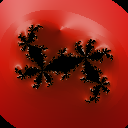
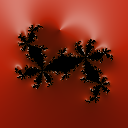
Fix: use escape radius 10^10 (matching reference) for accurate smooth iteration; adds col_i quantization in step shading; remove AA sigmoid from smooth=False

diff --git a/mandelbrot_testing_playground.py b/mandelbrot_testing_playground.py
@@ -377,7 +377,7 @@ def color_pixel(niter, stripe_a, step_s, dem, normal, colortable, ncycle, light,
 
 @njit
 def smooth_iter(c, maxiter, stripe_s, stripe_sig, use_julia=False, julia_c_re=0.0, julia_c_im=0.0):
-    esc_radius_2 = 4.0
+    esc_radius_2 = 10.0**10
     if use_julia:
         z = c
         c_const = complex(julia_c_re, julia_c_im)
@@ -442,7 +442,7 @@ if cuda is not None:
             cim     = y_min + (y_start + y) / (1 if 1 > total_h - 1 else total_h - 1) * (y_max - y_min)
             ncol = colortable.shape[0] - 1
             # Inline smooth_iter
-            esc_radius_2 = 4.0
+            esc_radius_2 = 10.0**10
             if use_julia:
                 zr, zi = creal, cim
             else:
